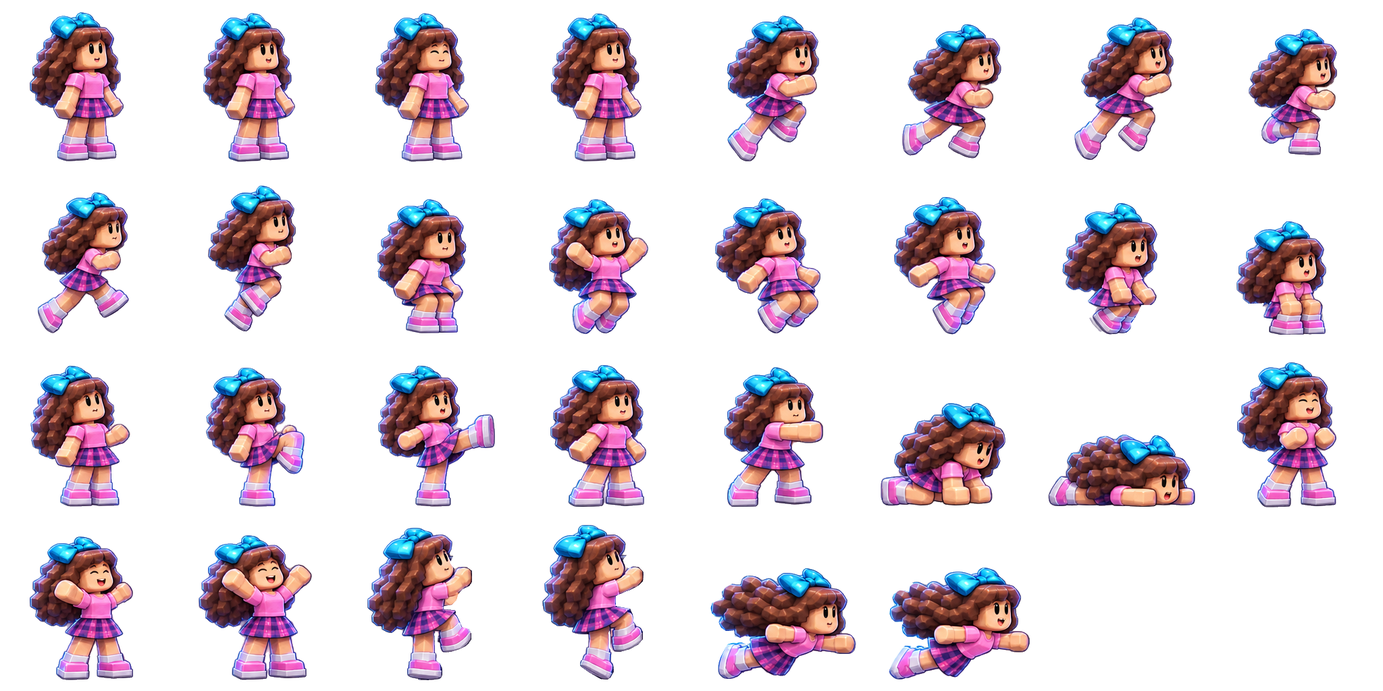
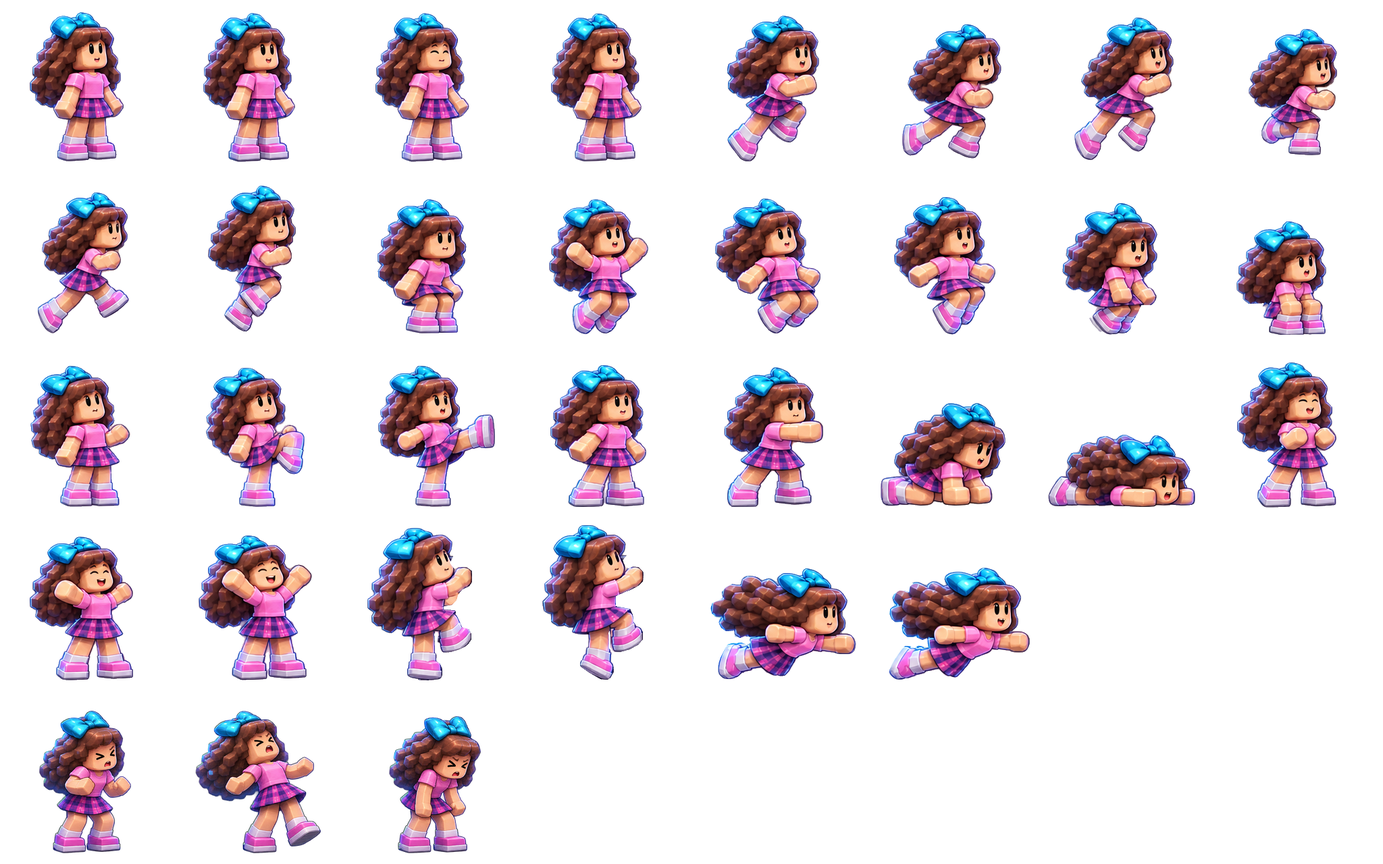
V58.8.36: poses propias de daño para la Sofía cúbica
- Tres poses del autor (golpe, empujón, recuperación) en una fila nueva del atlas (2048 x 1280; los 30
  cuadros anteriores sin cambios): 100/140/180 ms = 0,42 s del estado de daño, la última se mantiene.
- Escala 0,315 (igual tamaño que el reposo) y suela en y = 239; halo fuera y borde cian del pelo teñido
  con el color vecino conservando el sombreado.
- Prueba del atlas actualizada; versiones y caché del service worker 58.8.36; changelog.

Claude-Session: https://claude.ai/code/session_014Q4ZknC6CJXiujQoE6npZF

diff --git a/assets/player/sofia_roblox/sofia_atlas_data.js b/assets/player/sofia_roblox/sofia_atlas_data.js
@@ -1,1 +1,1 @@
-window.SOFIA_ROBLOX_ATLAS={"schema":"seme-fue-el-camion/sofia-roblox-parafalls-atlas/v2","meta":{"image":"sofia_atlas.png","size":{"w":2048,"h":1024},"frameCount":30,"source":"SOFIA_CUBICA_ATLAS_MAESTRO.zip (aportado por el autor; diseño oficial de la hoja de transformación)","frameSize":[256,256],"orientation":"right","pivot":"bottom_center","pivotPixels":{"x":128,"y":240},"aliases":{"dash":"glide","zipline":"glide","swing":"glide"},"cleanup":"alfa < 90 fuera (halo de recorte) y motas sueltas fuera; posiciones de celda sin cambios","status":"30 poses del diseño oficial; ciclos completos de reposo, correr, trepar, planear y celebrar; sin pose propia de daño"},"frames":{"idle_00":{"frame":{"x":0,"y":0,"w":256,"h":256},"rotated":false,"trimmed":false,"spriteSourceSize":{"x":0,"y":0,"w":256,"h":256},"sourceSize":{"w":256,"h":256},"pivot":{"x":0.5,"y":0.9375},"duration":150},"idle_01":{"frame":{"x":256,"y":0,"w":256,"h":256},"rotated":false,"trimmed":false,"spriteSourceSize":{"x":0,"y":0,"w":256,"h":256},"sourceSize":{"w":256,"h":256},"pivot":{"x":0.5,"y":0.9375},"duration":150},"idle_02":{"frame":{"x":512,"y":0,"w":256,"h":256},"rotated":false,"trimmed":false,"spriteSourceSize":{"x":0,"y":0,"w":256,"h":256},"sourceSize":{"w":256,"h":256},"pivot":{"x":0.5,"y":0.9375},"duration":120},"idle_03":{"frame":{"x":768,"y":0,"w":256,"h":256},"rotated":false,"trimmed":false,"spriteSourceSize":{"x":0,"y":0,"w":256,"h":256},"sourceSize":{"w":256,"h":256},"pivot":{"x":0.5,"y":0.9375},"duration":150},"run_00":{"frame":{"x":1024,"y":0,"w":256,"h":256},"rotated":false,"trimmed":false,"spriteSourceSize":{"x":0,"y":0,"w":256,"h":256},"sourceSize":{"w":256,"h":256},"pivot":{"x":0.5,"y":0.9375},"duration":83},"run_01":{"frame":{"x":1280,"y":0,"w":256,"h":256},"rotated":false,"trimmed":false,"spriteSourceSize":{"x":0,"y":0,"w":256,"h":256},"sourceSize":{"w":256,"h":256},"pivot":{"x":0.5,"y":0.9375},"duration":83},"run_02":{"frame":{"x":1536,"y":0,"w":256,"h":256},"rotated":false,"trimmed":false,"spriteSourceSize":{"x":0,"y":0,"w":256,"h":256},"sourceSize":{"w":256,"h":256},"pivot":{"x":0.5,"y":0.9375},"duration":83},"run_03":{"frame":{"x":1792,"y":0,"w":256,"h":256},"rotated":false,"trimmed":false,"spriteSourceSize":{"x":0,"y":0,"w":256,"h":256},"sourceSize":{"w":256,"h":256},"pivot":{"x":0.5,"y":0.9375},"duration":83},"run_04":{"frame":{"x":0,"y":256,"w":256,"h":256},"rotated":false,"trimmed":false,"spriteSourceSize":{"x":0,"y":0,"w":256,"h":256},"sourceSize":{"w":256,"h":256},"pivot":{"x":0.5,"y":0.9375},"duration":83},"run_05":{"frame":{"x":256,"y":256,"w":256,"h":256},"rotated":false,"trimmed":false,"spriteSourceSize":{"x":0,"y":0,"w":256,"h":256},"sourceSize":{"w":256,"h":256},"pivot":{"x":0.5,"y":0.9375},"duration":83},"jump_00":{"frame":{"x":512,"y":256,"w":256,"h":256},"rotated":false,"trimmed":false,"spriteSourceSize":{"x":0,"y":0,"w":256,"h":256},"sourceSize":{"w":256,"h":256},"pivot":{"x":0.5,"y":0.9375},"duration":90},"jump_01":{"frame":{"x":768,"y":256,"w":256,"h":256},"rotated":false,"trimmed":false,"spriteSourceSize":{"x":0,"y":0,"w":256,"h":256},"sourceSize":{"w":256,"h":256},"pivot":{"x":0.5,"y":0.9375},"duration":130},"fall_00":{"frame":{"x":1024,"y":256,"w":256,"h":256},"rotated":false,"trimmed":false,"spriteSourceSize":{"x":0,"y":0,"w":256,"h":256},"sourceSize":{"w":256,"h":256},"pivot":{"x":0.5,"y":0.9375},"duration":110},"fall_01":{"frame":{"x":1280,"y":256,"w":256,"h":256},"rotated":false,"trimmed":false,"spriteSourceSize":{"x":0,"y":0,"w":256,"h":256},"sourceSize":{"w":256,"h":256},"pivot":{"x":0.5,"y":0.9375},"duration":110},"land_00":{"frame":{"x":1536,"y":256,"w":256,"h":256},"rotated":false,"trimmed":false,"spriteSourceSize":{"x":0,"y":0,"w":256,"h":256},"sourceSize":{"w":256,"h":256},"pivot":{"x":0.5,"y":0.9375},"duration":75},"land_01":{"frame":{"x":1792,"y":256,"w":256,"h":256},"rotated":false,"trimmed":false,"spriteSourceSize":{"x":0,"y":0,"w":256,"h":256},"sourceSize":{"w":256,"h":256},"pivot":{"x":0.5,"y":0.9375},"duration":95},"kick_00":{"frame":{"x":0,"y":512,"w":256,"h":256},"rotated":false,"trimmed":false,"spriteSourceSize":{"x":0,"y":0,"w":256,"h":256},"sourceSize":{"w":256,"h":256},"pivot":{"x":0.5,"y":0.9375},"duration":80},"kick_01":{"frame":{"x":256,"y":512,"w":256,"h":256},"rotated":false,"trimmed":false,"spriteSourceSize":{"x":0,"y":0,"w":256,"h":256},"sourceSize":{"w":256,"h":256},"pivot":{"x":0.5,"y":0.9375},"duration":80},"kick_02":{"frame":{"x":512,"y":512,"w":256,"h":256},"rotated":false,"trimmed":false,"spriteSourceSize":{"x":0,"y":0,"w":256,"h":256},"sourceSize":{"w":256,"h":256},"pivot":{"x":0.5,"y":0.9375},"duration":115},"punch_00":{"frame":{"x":768,"y":512,"w":256,"h":256},"rotated":false,"trimmed":false,"spriteSourceSize":{"x":0,"y":0,"w":256,"h":256},"sourceSize":{"w":256,"h":256},"pivot":{"x":0.5,"y":0.9375},"duration":85},"punch_01":{"frame":{"x":1024,"y":512,"w":256,"h":256},"rotated":false,"trimmed":false,"spriteSourceSize":{"x":0,"y":0,"w":256,"h":256},"sourceSize":{"w":256,"h":256},"pivot":{"x":0.5,"y":0.9375},"duration":105},"defeat_00":{"frame":{"x":1280,"y":512,"w":256,"h":256},"rotated":false,"trimmed":false,"spriteSourceSize":{"x":0,"y":0,"w":256,"h":256},"sourceSize":{"w":256,"h":256},"pivot":{"x":0.5,"y":0.9375},"duration":180},"defeat_01":{"frame":{"x":1536,"y":512,"w":256,"h":256},"rotated":false,"trimmed":false,"spriteSourceSize":{"x":0,"y":0,"w":256,"h":256},"sourceSize":{"w":256,"h":256},"pivot":{"x":0.5,"y":0.9375},"duration":450},"celebrate_00":{"frame":{"x":1792,"y":512,"w":256,"h":256},"rotated":false,"trimmed":false,"spriteSourceSize":{"x":0,"y":0,"w":256,"h":256},"sourceSize":{"w":256,"h":256},"pivot":{"x":0.5,"y":0.9375},"duration":140},"celebrate_01":{"frame":{"x":0,"y":768,"w":256,"h":256},"rotated":false,"trimmed":false,"spriteSourceSize":{"x":0,"y":0,"w":256,"h":256},"sourceSize":{"w":256,"h":256},"pivot":{"x":0.5,"y":0.9375},"duration":140},"celebrate_02":{"frame":{"x":256,"y":768,"w":256,"h":256},"rotated":false,"trimmed":false,"spriteSourceSize":{"x":0,"y":0,"w":256,"h":256},"sourceSize":{"w":256,"h":256},"pivot":{"x":0.5,"y":0.9375},"duration":170},"climb_00":{"frame":{"x":512,"y":768,"w":256,"h":256},"rotated":false,"trimmed":false,"spriteSourceSize":{"x":0,"y":0,"w":256,"h":256},"sourceSize":{"w":256,"h":256},"pivot":{"x":0.5,"y":0.9375},"duration":140},"climb_01":{"frame":{"x":768,"y":768,"w":256,"h":256},"rotated":false,"trimmed":false,"spriteSourceSize":{"x":0,"y":0,"w":256,"h":256},"sourceSize":{"w":256,"h":256},"pivot":{"x":0.5,"y":0.9375},"duration":140},"glide_00":{"frame":{"x":1024,"y":768,"w":256,"h":256},"rotated":false,"trimmed":false,"spriteSourceSize":{"x":0,"y":0,"w":256,"h":256},"sourceSize":{"w":256,"h":256},"pivot":{"x":0.5,"y":0.9375},"duration":100},"glide_01":{"frame":{"x":1280,"y":768,"w":256,"h":256},"rotated":false,"trimmed":false,"spriteSourceSize":{"x":0,"y":0,"w":256,"h":256},"sourceSize":{"w":256,"h":256},"pivot":{"x":0.5,"y":0.9375},"duration":100}},"animations":{"idle":{"frames":["idle_00","idle_01","idle_02","idle_03"],"durationsMs":[150,150,120,150],"fps":7.02,"loop":true,"completeness":"full_cycle"},"walk":{"frames":["run_00","run_01","run_02","run_03","run_04","run_05"],"durationsMs":[112,112,112,112,112,112],"fps":8.93,"loop":true,"completeness":"full_cycle"},"run":{"frames":["run_00","run_01","run_02","run_03","run_04","run_05"],"durationsMs":[83,83,83,83,83,83],"fps":12.05,"loop":true,"completeness":"full_cycle"},"jump":{"frames":["jump_00","jump_01"],"durationsMs":[90,130],"fps":9.09,"loop":false,"completeness":"source_sequence"},"fall":{"frames":["fall_00","fall_01"],"durationsMs":[110,110],"fps":9.09,"loop":true,"completeness":"source_sequence"},"land":{"frames":["land_00","land_01"],"durationsMs":[75,95],"fps":11.76,"loop":false,"completeness":"source_sequence"},"climb":{"frames":["climb_00","climb_01"],"durationsMs":[140,140],"fps":7.14,"loop":true,"completeness":"full_cycle"},"glide":{"frames":["glide_00","glide_01"],"durationsMs":[100,100],"fps":10.0,"loop":true,"completeness":"full_cycle"},"attack":{"frames":["kick_00","kick_01","kick_02"],"durationsMs":[80,80,115],"fps":10.91,"loop":false,"completeness":"source_sequence"},"punch":{"frames":["punch_00","punch_01"],"durationsMs":[85,105],"fps":10.53,"loop":false,"completeness":"source_sequence"},"hurt":{"frames":["land_01"],"durationsMs":[200],"fps":5.0,"loop":false,"completeness":"substitute_pose"},"crouch":{"frames":["land_01"],"durationsMs":[200],"fps":5.0,"loop":false,"completeness":"substitute_pose"},"knockdown":{"frames":["defeat_00","defeat_01"],"durationsMs":[180,450],"fps":3.17,"loop":false,"completeness":"source_sequence"},"victory":{"frames":["celebrate_00","celebrate_01","celebrate_02"],"durationsMs":[140,140,170],"fps":6.67,"loop":true,"completeness":"full_cycle"}}};
+window.SOFIA_ROBLOX_ATLAS={"schema":"seme-fue-el-camion/sofia-roblox-parafalls-atlas/v2","meta":{"image":"sofia_atlas.png","size":{"w":2048,"h":1280},"frameCount":33,"source":"SOFIA_CUBICA_ATLAS_MAESTRO.zip (aportado por el autor; diseño oficial de la hoja de transformación)","frameSize":[256,256],"orientation":"right","pivot":"bottom_center","pivotPixels":{"x":128,"y":240},"aliases":{"dash":"glide","zipline":"glide","swing":"glide"},"cleanup":"alfa < 90 fuera (halo de recorte) y motas sueltas fuera; posiciones de celda sin cambios; daño: alfa < 90 fuera y borde cian del recorte teñido con el color vecino (conserva el sombreado)","status":"33 poses del diseño oficial; ciclos completos de reposo, correr, trepar, planear y celebrar; daño con 3 poses propias","hurtSource":"Tres poses de daño aportadas por el autor (V58.8.36): golpe, empujón hacia atrás y recuperación; escala 0,315 y suela en y = 239 como el resto"},"frames":{"idle_00":{"frame":{"x":0,"y":0,"w":256,"h":256},"rotated":false,"trimmed":false,"spriteSourceSize":{"x":0,"y":0,"w":256,"h":256},"sourceSize":{"w":256,"h":256},"pivot":{"x":0.5,"y":0.9375},"duration":150},"idle_01":{"frame":{"x":256,"y":0,"w":256,"h":256},"rotated":false,"trimmed":false,"spriteSourceSize":{"x":0,"y":0,"w":256,"h":256},"sourceSize":{"w":256,"h":256},"pivot":{"x":0.5,"y":0.9375},"duration":150},"idle_02":{"frame":{"x":512,"y":0,"w":256,"h":256},"rotated":false,"trimmed":false,"spriteSourceSize":{"x":0,"y":0,"w":256,"h":256},"sourceSize":{"w":256,"h":256},"pivot":{"x":0.5,"y":0.9375},"duration":120},"idle_03":{"frame":{"x":768,"y":0,"w":256,"h":256},"rotated":false,"trimmed":false,"spriteSourceSize":{"x":0,"y":0,"w":256,"h":256},"sourceSize":{"w":256,"h":256},"pivot":{"x":0.5,"y":0.9375},"duration":150},"run_00":{"frame":{"x":1024,"y":0,"w":256,"h":256},"rotated":false,"trimmed":false,"spriteSourceSize":{"x":0,"y":0,"w":256,"h":256},"sourceSize":{"w":256,"h":256},"pivot":{"x":0.5,"y":0.9375},"duration":83},"run_01":{"frame":{"x":1280,"y":0,"w":256,"h":256},"rotated":false,"trimmed":false,"spriteSourceSize":{"x":0,"y":0,"w":256,"h":256},"sourceSize":{"w":256,"h":256},"pivot":{"x":0.5,"y":0.9375},"duration":83},"run_02":{"frame":{"x":1536,"y":0,"w":256,"h":256},"rotated":false,"trimmed":false,"spriteSourceSize":{"x":0,"y":0,"w":256,"h":256},"sourceSize":{"w":256,"h":256},"pivot":{"x":0.5,"y":0.9375},"duration":83},"run_03":{"frame":{"x":1792,"y":0,"w":256,"h":256},"rotated":false,"trimmed":false,"spriteSourceSize":{"x":0,"y":0,"w":256,"h":256},"sourceSize":{"w":256,"h":256},"pivot":{"x":0.5,"y":0.9375},"duration":83},"run_04":{"frame":{"x":0,"y":256,"w":256,"h":256},"rotated":false,"trimmed":false,"spriteSourceSize":{"x":0,"y":0,"w":256,"h":256},"sourceSize":{"w":256,"h":256},"pivot":{"x":0.5,"y":0.9375},"duration":83},"run_05":{"frame":{"x":256,"y":256,"w":256,"h":256},"rotated":false,"trimmed":false,"spriteSourceSize":{"x":0,"y":0,"w":256,"h":256},"sourceSize":{"w":256,"h":256},"pivot":{"x":0.5,"y":0.9375},"duration":83},"jump_00":{"frame":{"x":512,"y":256,"w":256,"h":256},"rotated":false,"trimmed":false,"spriteSourceSize":{"x":0,"y":0,"w":256,"h":256},"sourceSize":{"w":256,"h":256},"pivot":{"x":0.5,"y":0.9375},"duration":90},"jump_01":{"frame":{"x":768,"y":256,"w":256,"h":256},"rotated":false,"trimmed":false,"spriteSourceSize":{"x":0,"y":0,"w":256,"h":256},"sourceSize":{"w":256,"h":256},"pivot":{"x":0.5,"y":0.9375},"duration":130},"fall_00":{"frame":{"x":1024,"y":256,"w":256,"h":256},"rotated":false,"trimmed":false,"spriteSourceSize":{"x":0,"y":0,"w":256,"h":256},"sourceSize":{"w":256,"h":256},"pivot":{"x":0.5,"y":0.9375},"duration":110},"fall_01":{"frame":{"x":1280,"y":256,"w":256,"h":256},"rotated":false,"trimmed":false,"spriteSourceSize":{"x":0,"y":0,"w":256,"h":256},"sourceSize":{"w":256,"h":256},"pivot":{"x":0.5,"y":0.9375},"duration":110},"land_00":{"frame":{"x":1536,"y":256,"w":256,"h":256},"rotated":false,"trimmed":false,"spriteSourceSize":{"x":0,"y":0,"w":256,"h":256},"sourceSize":{"w":256,"h":256},"pivot":{"x":0.5,"y":0.9375},"duration":75},"land_01":{"frame":{"x":1792,"y":256,"w":256,"h":256},"rotated":false,"trimmed":false,"spriteSourceSize":{"x":0,"y":0,"w":256,"h":256},"sourceSize":{"w":256,"h":256},"pivot":{"x":0.5,"y":0.9375},"duration":95},"kick_00":{"frame":{"x":0,"y":512,"w":256,"h":256},"rotated":false,"trimmed":false,"spriteSourceSize":{"x":0,"y":0,"w":256,"h":256},"sourceSize":{"w":256,"h":256},"pivot":{"x":0.5,"y":0.9375},"duration":80},"kick_01":{"frame":{"x":256,"y":512,"w":256,"h":256},"rotated":false,"trimmed":false,"spriteSourceSize":{"x":0,"y":0,"w":256,"h":256},"sourceSize":{"w":256,"h":256},"pivot":{"x":0.5,"y":0.9375},"duration":80},"kick_02":{"frame":{"x":512,"y":512,"w":256,"h":256},"rotated":false,"trimmed":false,"spriteSourceSize":{"x":0,"y":0,"w":256,"h":256},"sourceSize":{"w":256,"h":256},"pivot":{"x":0.5,"y":0.9375},"duration":115},"punch_00":{"frame":{"x":768,"y":512,"w":256,"h":256},"rotated":false,"trimmed":false,"spriteSourceSize":{"x":0,"y":0,"w":256,"h":256},"sourceSize":{"w":256,"h":256},"pivot":{"x":0.5,"y":0.9375},"duration":85},"punch_01":{"frame":{"x":1024,"y":512,"w":256,"h":256},"rotated":false,"trimmed":false,"spriteSourceSize":{"x":0,"y":0,"w":256,"h":256},"sourceSize":{"w":256,"h":256},"pivot":{"x":0.5,"y":0.9375},"duration":105},"defeat_00":{"frame":{"x":1280,"y":512,"w":256,"h":256},"rotated":false,"trimmed":false,"spriteSourceSize":{"x":0,"y":0,"w":256,"h":256},"sourceSize":{"w":256,"h":256},"pivot":{"x":0.5,"y":0.9375},"duration":180},"defeat_01":{"frame":{"x":1536,"y":512,"w":256,"h":256},"rotated":false,"trimmed":false,"spriteSourceSize":{"x":0,"y":0,"w":256,"h":256},"sourceSize":{"w":256,"h":256},"pivot":{"x":0.5,"y":0.9375},"duration":450},"celebrate_00":{"frame":{"x":1792,"y":512,"w":256,"h":256},"rotated":false,"trimmed":false,"spriteSourceSize":{"x":0,"y":0,"w":256,"h":256},"sourceSize":{"w":256,"h":256},"pivot":{"x":0.5,"y":0.9375},"duration":140},"celebrate_01":{"frame":{"x":0,"y":768,"w":256,"h":256},"rotated":false,"trimmed":false,"spriteSourceSize":{"x":0,"y":0,"w":256,"h":256},"sourceSize":{"w":256,"h":256},"pivot":{"x":0.5,"y":0.9375},"duration":140},"celebrate_02":{"frame":{"x":256,"y":768,"w":256,"h":256},"rotated":false,"trimmed":false,"spriteSourceSize":{"x":0,"y":0,"w":256,"h":256},"sourceSize":{"w":256,"h":256},"pivot":{"x":0.5,"y":0.9375},"duration":170},"climb_00":{"frame":{"x":512,"y":768,"w":256,"h":256},"rotated":false,"trimmed":false,"spriteSourceSize":{"x":0,"y":0,"w":256,"h":256},"sourceSize":{"w":256,"h":256},"pivot":{"x":0.5,"y":0.9375},"duration":140},"climb_01":{"frame":{"x":768,"y":768,"w":256,"h":256},"rotated":false,"trimmed":false,"spriteSourceSize":{"x":0,"y":0,"w":256,"h":256},"sourceSize":{"w":256,"h":256},"pivot":{"x":0.5,"y":0.9375},"duration":140},"glide_00":{"frame":{"x":1024,"y":768,"w":256,"h":256},"rotated":false,"trimmed":false,"spriteSourceSize":{"x":0,"y":0,"w":256,"h":256},"sourceSize":{"w":256,"h":256},"pivot":{"x":0.5,"y":0.9375},"duration":100},"glide_01":{"frame":{"x":1280,"y":768,"w":256,"h":256},"rotated":false,"trimmed":false,"spriteSourceSize":{"x":0,"y":0,"w":256,"h":256},"sourceSize":{"w":256,"h":256},"pivot":{"x":0.5,"y":0.9375},"duration":100},"hurt_00":{"frame":{"x":0,"y":1024,"w":256,"h":256},"rotated":false,"trimmed":false,"spriteSourceSize":{"x":0,"y":0,"w":256,"h":256},"sourceSize":{"w":256,"h":256},"pivot":{"x":0.5,"y":0.9375},"duration":100},"hurt_01":{"frame":{"x":256,"y":1024,"w":256,"h":256},"rotated":false,"trimmed":false,"spriteSourceSize":{"x":0,"y":0,"w":256,"h":256},"sourceSize":{"w":256,"h":256},"pivot":{"x":0.5,"y":0.9375},"duration":140},"hurt_02":{"frame":{"x":512,"y":1024,"w":256,"h":256},"rotated":false,"trimmed":false,"spriteSourceSize":{"x":0,"y":0,"w":256,"h":256},"sourceSize":{"w":256,"h":256},"pivot":{"x":0.5,"y":0.9375},"duration":180}},"animations":{"idle":{"frames":["idle_00","idle_01","idle_02","idle_03"],"durationsMs":[150,150,120,150],"fps":7.02,"loop":true,"completeness":"full_cycle"},"walk":{"frames":["run_00","run_01","run_02","run_03","run_04","run_05"],"durationsMs":[112,112,112,112,112,112],"fps":8.93,"loop":true,"completeness":"full_cycle"},"run":{"frames":["run_00","run_01","run_02","run_03","run_04","run_05"],"durationsMs":[83,83,83,83,83,83],"fps":12.05,"loop":true,"completeness":"full_cycle"},"jump":{"frames":["jump_00","jump_01"],"durationsMs":[90,130],"fps":9.09,"loop":false,"completeness":"source_sequence"},"fall":{"frames":["fall_00","fall_01"],"durationsMs":[110,110],"fps":9.09,"loop":true,"completeness":"source_sequence"},"land":{"frames":["land_00","land_01"],"durationsMs":[75,95],"fps":11.76,"loop":false,"completeness":"source_sequence"},"climb":{"frames":["climb_00","climb_01"],"durationsMs":[140,140],"fps":7.14,"loop":true,"completeness":"full_cycle"},"glide":{"frames":["glide_00","glide_01"],"durationsMs":[100,100],"fps":10.0,"loop":true,"completeness":"full_cycle"},"attack":{"frames":["kick_00","kick_01","kick_02"],"durationsMs":[80,80,115],"fps":10.91,"loop":false,"completeness":"source_sequence"},"punch":{"frames":["punch_00","punch_01"],"durationsMs":[85,105],"fps":10.53,"loop":false,"completeness":"source_sequence"},"hurt":{"frames":["hurt_00","hurt_01","hurt_02"],"durationsMs":[100,140,180],"fps":7.14,"loop":false,"completeness":"source_sequence"},"crouch":{"frames":["land_01"],"durationsMs":[200],"fps":5.0,"loop":false,"completeness":"substitute_pose"},"knockdown":{"frames":["defeat_00","defeat_01"],"durationsMs":[180,450],"fps":3.17,"loop":false,"completeness":"source_sequence"},"victory":{"frames":["celebrate_00","celebrate_01","celebrate_02"],"durationsMs":[140,140,170],"fps":6.67,"loop":true,"completeness":"full_cycle"}}};

diff --git a/sw.js b/sw.js
@@ -1,4 +1,5 @@
-// ¡Se me fue el camión! — service worker (V58.8.35).
+// ¡Se me fue el camión! — service worker (V58.8.36).
+// V58.8.36: poses de daño de la Sofía cúbica (sofia_atlas.png crece a 2048 × 1280 en la misma ruta: lo renueva el CACHE nuevo).
 // V58.8.35: capas de ambiente con suavizado ligero (render.js), aviso bajo el letrero (ui.js) y combo de Sofía Roblox.
 // V58.8.34: cuadros de la transformación de Sofía a Roblox con la exportación más nítida (mismas rutas: los renueva el CACHE nuevo).
 // V58.8.33: atlas de la Sofía cúbica oficial en Parafalls (el PNG cambia de contenido: lo renueva el CACHE nuevo).
@@ -27,8 +28,8 @@
 // Cada instalación mantiene el caché de su propia carpeta.
 const SCOPE = self.registration.scope;
 const CACHE_PREFIX = 'camion-web:' + SCOPE + '|';
-const CACHE = CACHE_PREFIX + '58.8.35';
-const CODE=["assets/player/sofia_roblox/sofia_atlas_data.js?v=58.8.33", "assets/player/sofia_roblox/sofia_parafalls_adapter.js?v=58.8.35", "js/app/parafalls_roblox_atlases.js?v=58.8.14", "css/game.css?v=58.8.1", "css/toxifamilia_style.css?v=58.8.17", "css/toxifamilia.css?v=58.8.25", "css/release_visual.css?v=58.8.30", "js/core/util.js?v=58.8.1", "js/core/config.js?v=58.8.35", "js/core/parafalls_data.js?v=58.8.13", "js/core/levels.js?v=58.8.30", "js/core/story.js?v=58.8.30", "js/core/toxifamilia_style.js?v=58.8.30", "js/core/toxifamilia.js?v=58.8.32", "js/core/physics.js?v=58.8.24", "js/core/enemies.js?v=58.8.29", "js/core/obstacles.js?v=58.8.1", "js/core/contracts.js?v=58.8.29", "js/core/upgrades.js?v=58.8.27", "js/core/world.js?v=58.8.29", "js/core/game.js?v=58.8.30", "js/core/chase.js?v=58.8.29", "js/app/art_data.js?v=58.8.1", "js/app/art_secretos.js?v=58.8.6", "js/app/art_extra.js?v=58.8.29", "js/app/art_production.js?v=58.8.1", "js/app/render.js?v=58.8.35", "js/app/chase_render.js?v=58.8.31", "js/app/input.js?v=58.8.1", "js/app/audio.js?v=58.8.31", "js/app/ui.js?v=58.8.35", "js/app/main.js?v=58.8.32", "js/app/toxifamilia_cinematic.js?v=58.8.30"];
+const CACHE = CACHE_PREFIX + '58.8.36';
+const CODE=["assets/player/sofia_roblox/sofia_atlas_data.js?v=58.8.36", "assets/player/sofia_roblox/sofia_parafalls_adapter.js?v=58.8.36", "js/app/parafalls_roblox_atlases.js?v=58.8.14", "css/game.css?v=58.8.1", "css/toxifamilia_style.css?v=58.8.17", "css/toxifamilia.css?v=58.8.25", "css/release_visual.css?v=58.8.30", "js/core/util.js?v=58.8.1", "js/core/config.js?v=58.8.36", "js/core/parafalls_data.js?v=58.8.13", "js/core/levels.js?v=58.8.30", "js/core/story.js?v=58.8.30", "js/core/toxifamilia_style.js?v=58.8.30", "js/core/toxifamilia.js?v=58.8.32", "js/core/physics.js?v=58.8.24", "js/core/enemies.js?v=58.8.29", "js/core/obstacles.js?v=58.8.1", "js/core/contracts.js?v=58.8.29", "js/core/upgrades.js?v=58.8.27", "js/core/world.js?v=58.8.29", "js/core/game.js?v=58.8.30", "js/core/chase.js?v=58.8.29", "js/app/art_data.js?v=58.8.1", "js/app/art_secretos.js?v=58.8.6", "js/app/art_extra.js?v=58.8.29", "js/app/art_production.js?v=58.8.1", "js/app/render.js?v=58.8.35", "js/app/chase_render.js?v=58.8.31", "js/app/input.js?v=58.8.1", "js/app/audio.js?v=58.8.31", "js/app/ui.js?v=58.8.35", "js/app/main.js?v=58.8.32", "js/app/toxifamilia_cinematic.js?v=58.8.30"];
 const SHELL=['Se_Me_Fue_El_Camion.html','index.html','manifest.webmanifest','icon-192.png','icon-512.png','icon-512-maskable.png','assets/audio/cancion_fondo_v40.mp3','assets/audio/guadalajara_aventura_v24.mp3','assets/audio/ambiente_escuela_v24.mp3','assets/audio/ambiente_calles_guadalajara_v24.mp3','assets/audio/luna_maullido_v24.mp3','assets/audio/morita_maullido_v24.mp3','assets/audio/luna_ronroneo_v31.mp3','assets/audio/morita_ronroneo_v31.mp3','assets/audio/luna_alerta_v31.mp3','assets/audio/morita_alerta_v31.mp3','assets/audio/sofia_otro_gato_usuario_v38.mp3','assets/audio/mar_chinos_de_seda_fondo_v58_3.mp3','assets/audio/motor_camion_guadalajara_v25.mp3','assets/audio/boss_intro_v37.mp3','assets/audio/boss_windup_v37.mp3','assets/audio/boss_hit_v37.mp3','assets/audio/boss_defeat_v37.mp3','assets/vehicles/camion_frame_01.png','assets/vehicles/camion_frame_02.png','assets/vehicles/camion_frame_03.png','assets/vehicles/camion_frame_04.png','assets/companions/luna.png','assets/companions/luna_shoulder.png','assets/companions/morita.png','assets/companions/morita_shoulder.png'];
 const SCENES=["assets/scenes/generated/anden_tren_ligero_guadalajara.webp", "assets/scenes/generated/guadalajara_colonia_noche.webp", "assets/scenes/generated/mercado_tapatio_amanecer.webp", "assets/scenes/generated/parque_metropolitano_atardecer.webp", "assets/scenes/generated/plaza_jacarandas_noche.webp", "assets/scenes/generated/terminal_guadalajara_amanecer.webp", "assets/scenes/generated/zapopan_basilica_noche.webp", "assets/scenes/guadalajara_pro_v2/bg_guadalajara_pro_v2.webp", "assets/scenes/guadalajara_pro_v2/transit_street.webp", "assets/scenes/guadalajara_pro_v2/bg_portales_pro_v2.webp", "assets/scenes/guadalajara_pro_v2/bg_centro_historico_pro_v2.webp", "assets/scenes/guadalajara_pro_v2/architecture_guadalajara_pro_v2.png", "assets/scenes/guadalajara_pro_v2/architecture_portales_pro_v2.png", "assets/scenes/guadalajara_pro_v2/architecture_centro_historico_pro_v2.png", "assets/scenes/school_miguel_hidalgo/01_aulas_superiores.webp", "assets/scenes/school_miguel_hidalgo/02_patio_escolar.webp", "assets/scenes/school_miguel_hidalgo/03_conserjeria_entrada.webp"];
 const ART=["assets/player/sofia/air_01.png", "assets/player/sofia/cheer_01.png", "assets/player/sofia/cheer_02.png", "assets/player/sofia/cheer_03.png", "assets/player/sofia/dive_01.png", "assets/player/sofia/idle_01.png", "assets/player/sofia/kick_01.png", "assets/player/sofia/kick_02.png", "assets/player/sofia/kick_03.png", "assets/player/sofia/kick_04.png", "assets/player/sofia/land_01.png", "assets/player/sofia/run_01.png", "assets/player/sofia/run_02.png", "assets/player/sofia/run_03.png", "assets/player/sofia/run_04.png", "assets/platforms/brick.png", "assets/platforms/concrete.png", "assets/platforms/hazard.png", "assets/platforms/scaffold.png", "assets/platforms/stone_long.png", "assets/platforms/stone_moss.png", "assets/platforms/stone_rocks.png", "assets/platforms/stone_slim.png", "assets/platforms/stone_small.png", "assets/platforms/tiles_a.png", "assets/platforms/tiles_b.png", "assets/platforms/wood_table.png", "assets/platforms/plank.png", "assets/player/sofia/swim_atlas.png", "assets/enemies/v50/dog/alert_02.png", "assets/enemies/v50/dog/alert_03.png", "assets/enemies/v50/dog/dead_01.png", "assets/enemies/v50/dog/walk_02.png", "assets/enemies/v50/dog/walk_03.png", "assets/enemies/v50/dog/walk_04.png", "assets/enemies/v50/kid/alert_01.png", "assets/enemies/v50/kid/alert_02.png", "assets/enemies/v50/kid/alert_03.png", "assets/enemies/v50/kid/alert_04.png", "assets/enemies/v50/kid/alert_05.png", "assets/enemies/v50/kid/dead_02.png", "assets/enemies/v50/kid/hurt_01.png", "assets/enemies/v50/kid/hurt_02.png", "assets/enemies/v50/kid/hurt_03.png", "assets/enemies/v50/kid/idle_01.png", "assets/enemies/v50/kid/idle_02.png", "assets/enemies/v50/kid/idle_03.png", "assets/enemies/v50/kid/idle_04.png", "assets/enemies/v50/kid/idle_05.png", "assets/enemies/v50/kid/idle_06.png", "assets/enemies/v50/kid/walk_01.png", "assets/enemies/v50/kid/walk_02.png", "assets/enemies/v50/kid/walk_03.png", "assets/enemies/v50/kid/walk_04.png", "assets/enemies/v50/kid/walk_05.png", "assets/enemies/v50/kid/walk_06.png", "assets/enemies/v50/rat/alert_01.png", "assets/enemies/v50/rat/alert_02.png", "assets/enemies/v50/rat/alert_04.png", "assets/enemies/v50/rat/dead_01.png", "assets/enemies/v50/rat/hurt_01.png", "assets/enemies/v50/rat/hurt_02.png", "assets/enemies/v50/rat/hurt_03.png", "assets/enemies/v50/rat/hurt_04.png", "assets/enemies/v50/rat/walk_01.png", "assets/enemies/v50/rat/walk_02.png", "assets/enemies/v50/rat/walk_03.png", "assets/backgrounds/atlas_parallax_city.webp"];

diff --git a/tests/parafalls_roblox_atlases.test.js b/tests/parafalls_roblox_atlases.test.js
@@ -13,9 +13,9 @@ function pngSize(file) {
 
 test('Parafalls Roblox: atlas fuente completos, referencias dentro de hoja y metadata íntegra', () => {
   const sofia = JSON.parse(read('assets/player/sofia_roblox/sofia_atlas.json'));
-  assert.equal(sofia.meta.frameCount, 30);
+  assert.equal(sofia.meta.frameCount, 33);
   assert.deepEqual(pngSize('assets/player/sofia_roblox/sofia_atlas.png'), [sofia.meta.size.w, sofia.meta.size.h]);
-  assert.equal(Object.keys(sofia.frames).length, 30);
+  assert.equal(Object.keys(sofia.frames).length, 33);
   for (const [name, frame] of Object.entries(sofia.frames)) {
     const r = frame.frame;
     assert.ok(r.x >= 0 && r.y >= 0 && r.w > 0 && r.h > 0, `rectángulo Sofía ${name}`);
@@ -27,6 +27,15 @@ test('Parafalls Roblox: atlas fuente completos, referencias dentro de hoja y met
   assert.equal(sofia.animations.run.frames.length, 6);
   assert.equal(sofia.animations.walk.completeness, 'full_cycle');
   assert.deepEqual(sofia.meta.pivotPixels, { x: 128, y: 240 });
+  // V58.8.36: daño con sus tres poses propias (golpe, empujón, recuperación), no un cuadro sustituto; dura lo mismo que
+  // el estado de daño del juego (game.js: P.hurtT = 0.42) y se queda en la última pose.
+  const hurt = sofia.animations.hurt;
+  assert.deepEqual(hurt.frames, ['hurt_00', 'hurt_01', 'hurt_02']);
+  assert.equal(hurt.completeness, 'source_sequence');
+  assert.equal(hurt.loop, false);
+  assert.equal(hurt.durationsMs.reduce((s, d) => s + d, 0), 420);
+  assert.match(read('js/core/game.js'), /P\.hurtT = 0\.42;/);
+  for (const f of hurt.frames) assert.deepEqual(sofia.frames[f].pivot, { x: 0.5, y: 0.9375 }, 'ancla de pies de ' + f);
   // Cada estado que pide el juego (render.js: PARAFALLS_ROBLOX_PLAYER_STATE) tiene su animación y cuadros existentes.
   for (const st of ['idle', 'run', 'jump', 'fall', 'land', 'climb', 'glide', 'attack', 'hurt', 'knockdown', 'victory']) {
     const an = sofia.animations[st];

diff --git a/Se_Me_Fue_El_Camion.html b/Se_Me_Fue_El_Camion.html
@@ -182,7 +182,7 @@
 
 <!-- Núcleo sin DOM (probado con node --test) -->
 <script src="js/core/util.js?v=58.8.1"></script>
-<script src="js/core/config.js?v=58.8.35"></script>
+<script src="js/core/config.js?v=58.8.36"></script>
 <script src="js/core/parafalls_data.js?v=58.8.13"></script>
 <script src="js/core/levels.js?v=58.8.30"></script>
 <script src="js/core/story.js?v=58.8.30"></script>
@@ -201,8 +201,8 @@
 <script src="js/app/art_secretos.js?v=58.8.6"></script>
 <script src="js/app/art_extra.js?v=58.8.29"></script>
 <script src="js/app/art_production.js?v=58.8.1"></script>
-<script src="assets/player/sofia_roblox/sofia_atlas_data.js?v=58.8.33"></script>
-<script src="assets/player/sofia_roblox/sofia_parafalls_adapter.js?v=58.8.35"></script>
+<script src="assets/player/sofia_roblox/sofia_atlas_data.js?v=58.8.36"></script>
+<script src="assets/player/sofia_roblox/sofia_parafalls_adapter.js?v=58.8.36"></script>
 <script src="js/app/parafalls_roblox_atlases.js?v=58.8.14"></script>
 <script src="js/app/render.js?v=58.8.35"></script>
 <script src="js/app/chase_render.js?v=58.8.31"></script>

diff --git a/tests/v58_8_21_visual.test.js b/tests/v58_8_21_visual.test.js
@@ -14,7 +14,7 @@ test('V58.8.21: 22 imágenes originales retocadas, dimensiones declaradas y hash
 });
 test('V58.8.21: recursos de presentación y estilos versionados están en precache',()=>{
  const sw=read('sw.js').toString(),html=read('Se_Me_Fue_El_Camion.html').toString();
- assert.ok(sw.includes("'58.8.35'"));
+ assert.ok(sw.includes("'58.8.36'"));
  for(const [p,v] of [['css/release_visual.css','58.8.30'],['js/app/render.js','58.8.35'],['js/app/ui.js','58.8.35']]){assert.ok(sw.includes(p+'?v='+v));assert.ok(html.includes(p+'?v='+v));}
  for(const id of ['escuela','guadalajara','submarino','espacial','parafalls','sofia','luna','morita']){const f=`assets/ui/worlds_v21/${id}.webp`;assert.ok(sw.includes(f));assert.ok(read(f).length>1000);}
  for(const id of ['worldKicker','worldTitle','worldDesc','hudWorld','routeFill'])assert.ok(html.includes('id="'+id+'"'));

diff --git a/assets/player/sofia_roblox/sofia_parafalls_adapter.js b/assets/player/sofia_roblox/sofia_parafalls_adapter.js
@@ -1,5 +1,6 @@
-/* Sofía Roblox 30-authored-frame atlas renderer — HTML5 Canvas 2D.
+/* Sofía Roblox 33-authored-frame atlas renderer — HTML5 Canvas 2D.
  * V58.8.33: atlas de la Sofía cúbica oficial (durationsMs por cuadro; si no hay, fps por animación).
+ * V58.8.36: tres poses propias de daño (golpe, empujón, recuperación) en una fila nueva del atlas.
  * Does not mutate game physics, attack boxes, camera, or the world map.
  * Root x,feetY stay in world coordinates. Metadata includes alpha contour trimming.
  */
@@ -38,6 +39,6 @@
     ctx.restore();
     return true;
   }
-  target.SofiaRobloxAtlas = Object.freeze({draw,poseCount:30,
+  target.SofiaRobloxAtlas = Object.freeze({draw,poseCount:33,
     getFrames(meta,state){return (meta.animations[state]||meta.animations.idle).frames.slice();}});
 })(typeof window!=='undefined'?window:globalThis);

diff --git a/js/core/config.js b/js/core/config.js
@@ -6,8 +6,8 @@
   const NS = root.CAMION = root.CAMION || {};
 
   NS.CONFIG = {
-    version: '58.8.35',
-    build: 'v58-8-35-capas-ligeras',
+    version: '58.8.36',
+    build: 'v58-8-36-dano-cubico',
 
     sim: {
       fixedDt: 1 / 60,      // paso fijo de simulación (60 Hz), independiente de la tasa de refresco

diff --git a/CHANGELOG_V58_8_24.md b/CHANGELOG_V58_8_24.md
@@ -678,3 +678,31 @@ cuadros anteriores. La revisé a fondo y ahora la uso.
   comprobé que falla si se quita la marca o la condición.
 - **Chromium:** recorrí los 23 tramos sin errores ni archivos faltantes. Verifiqué el combo (patada, puñetazo
   encadenado, patada tras una pausa) y el destello de daño en capturas.
+
+# V58.8.36 · La Sofía cúbica ya tiene sus propias poses de daño
+
+Integré las tres poses de daño que mandaste. Antes, al recibir un golpe, la Sofía cúbica usaba un cuadro de aterrizaje
+como sustituto.
+- **Secuencia:** golpe (puños arriba y ojos cerrados), empujón hacia atrás (inclinada, con un pie en el aire) y
+  recuperación (encorvada, manos en las rodillas), en el orden de tu hoja. Duran 100, 140 y 180 ms. Suman 0,42 s, lo
+  mismo que el estado de daño del juego, y la última pose se mantiene hasta que Sofía recupera el control. El destello
+  rojo cubre el golpe y el inicio del empujón.
+- **Mismo tamaño que el resto:** medí la escala con el área de la silueta, los zapatos y una comparación directa con el
+  reposo (cabeza, moño y zapatos). Quedó en 0,315: Sofía no crece ni se encoge al recibir el golpe.
+- **Ancla en los pies:** como en el atlas, la suela queda en y = 239 de la celda de 256. Las poses de pie se centran en
+  ambos pies; el empujón, en el pie de apoyo.
+- **Limpieza:** la hoja traía un halo tenue y un borde cian grueso en el pelo (unos 20 px en el original). Quité el halo
+  (alfa < 90, como en el resto del atlas). El borde cian lo teñí con el color del pelo o de la piel vecinos y conservé el
+  sombreado de los cubos. Así el contorno queda con el mismo morado sutil del atlas: color medio del borde (72–79,
+  75–83, 122–132) contra (84, 84, 143) en el reposo. El moño y el morado de la falda a cuadros no se tocaron.
+- **Atlas:** los 30 cuadros anteriores no se movieron ni cambió un solo píxel (verificado). Las poses nuevas van en una
+  fila nueva, y el atlas pasa de 2048 × 1024 a 2048 × 1280 en la misma ruta. La caché nueva del service worker lo
+  renueva.
+
+**QA**
+- **Node:** 159/159. La prueba del atlas ahora exige las tres poses propias, que duren 0,42 s como el daño del juego y
+  que tengan el ancla en los pies.
+- **Chromium:**
+  - Provoqué un golpe en Parafalls y capturé la secuencia: golpe con destello, empujón, recuperación, final y vuelta al
+    reposo; también mirando a la izquierda.
+  - Recorrí los 23 tramos sin errores ni archivos faltantes.
